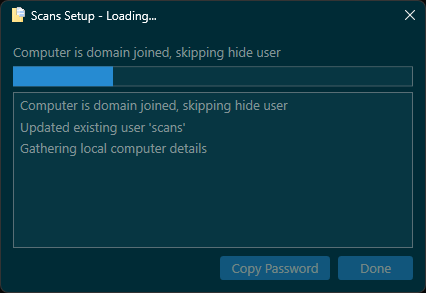
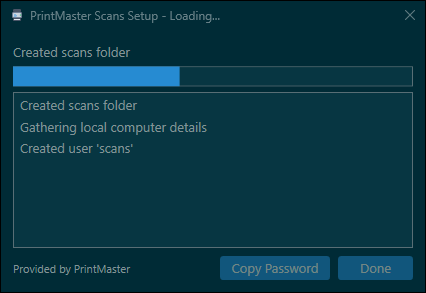
feat(site): align scans with printmaster and refresh screenshots
Refresh the landing page with shared PrintMaster styling and cross-site navigation while preserving release loading and copy commands. Replace all app screenshots with current branded window captures using documented example data and link the manual SMB setup guide.

diff --git a/site/index.html b/site/index.html
@@ -3,6 +3,7 @@
 <head>
   <meta charset="utf-8">
   <meta name="viewport" content="width=device-width, initial-scale=1">
+  <meta name="theme-color" content="#002b36">
   <meta name="description" content="PrintMaster Scans sets up a Windows scan-to-SMB account, folder, and network share.">
   <title>Scans | PrintMaster</title>
   <link rel="icon" href="logo.svg" type="image/svg+xml">
@@ -11,63 +12,105 @@
 </head>
 <body>
   <a class="skip-link" href="#main">Skip to content</a>
-  <header>
-    <a class="brand" href="https://printmaster.work/" aria-label="PrintMaster home"><img src="logo.svg" alt="" width="40" height="40"><span>Print<span class="brand-accent">Master</span></span></a>
-    <span class="product-name">Scans</span>
-    <nav aria-label="Main navigation"><a href="https://docs.printmaster.work/guides/scans/">Documentation</a><a href="https://github.com/printmaster-org/scans">GitHub</a></nav>
+  <header class="site-header">
+    <div class="container nav-wrap">
+      <a class="brand" href="https://printmaster.work/" aria-label="PrintMaster home"><img src="logo.svg" alt="" width="40" height="40"><span>Print<span class="brand-accent">Master</span></span></a>
+      <nav aria-label="Main navigation">
+        <a href="https://printmaster.work/">Platform</a>
+        <a href="https://printmaster.work/downloads">Downloads</a>
+        <a href="./" aria-current="page">Scans</a>
+        <a href="https://docs.printmaster.work/guides/scans/">Docs <span aria-hidden="true">&nearr;</span></a>
+        <a class="nav-github" href="https://github.com/printmaster-org/scans">GitHub <span aria-hidden="true">&nearr;</span></a>
+      </nav>
+    </div>
   </header>
   <main id="main">
     <section class="hero">
-      <p class="eyebrow">Scan-to-SMB setup for Windows</p>
-      <h1>A home for your scans.<br>Without the setup headache.</h1>
-      <p>Create a dedicated account, scan folder, SMB share, and desktop shortcut, with guided network configuration.</p>
-      <p>Provided by PrintMaster. A standalone utility &mdash; no PrintMaster Agent or Server required.</p>
-      <a class="button" href="#get-started">Get started</a>
-      <a class="secondary" href="https://github.com/printmaster-org/scans">View source on GitHub</a>
-    </section>
-    <section id="get-started">
-      <h2>Set up your PC</h2>
-      <ol>
-        <li>Open <strong>Windows PowerShell or Terminal as Administrator</strong>.</li>
-        <li>Review the <a href="scans.ps1">loader script</a>, then paste this command:</li>
-      </ol>
-      <div id="setup-command" class="command-block">
-        <pre><code id="setup-command-text">irm https://scans.printmaster.work/scans.ps1 | iex</code></pre>
+      <div class="container hero-layout">
+        <div class="hero-copy">
+          <p class="eyebrow">PrintMaster Scans &middot; Windows</p>
+          <h1>A home for your scans.<br><span>Without the setup headache.</span></h1>
+          <p class="hero-lede">Create a dedicated account, scan folder, SMB share, and desktop shortcut, with guided network configuration.</p>
+          <div class="hero-actions">
+            <a class="button" href="#get-started">Set up scan-to-SMB <span aria-hidden="true">&rarr;</span></a>
+            <a class="button secondary" href="https://docs.printmaster.work/guides/scans/">Read the guide <span aria-hidden="true">&nearr;</span></a>
+          </div>
+          <ul class="hero-meta" aria-label="Utility highlights"><li>Standalone utility</li><li>No Agent or Server required</li><li>PowerShell 5.1 / 7</li></ul>
+        </div>
+        <figure class="preview">
+          <div class="preview-heading"><span class="status-dot" aria-hidden="true"></span> YOUR PC. READY TO RECEIVE.</div>
+          <img src="img/scans-setup.png" alt="Scans setup window with account, folder, and share settings" width="426" height="243" fetchpriority="high">
+          <figcaption>Choose your account, folder, and share.<br>Provided by PrintMaster. Example credentials shown.</figcaption>
+        </figure>
       </div>
-      <p id="stable-status" role="status">Loading stable release information...</p>
-      <p>Choose your account, folder, and share settings. Keep the generated password or choose one that meets your organization's policy. After setup, enter the PC's SMB share address and scan-account credentials on your printer.</p>
-      <p><a href="https://docs.printmaster.work/guides/scans/">Read the setup and troubleshooting guide</a> for printer settings, permissions, and password-policy help.</p>
-      <p>The loader downloads a version-specific GitHub release and verifies SHA-256 before running it. A download or verification failure stops execution; it never falls back to development code.</p>
+      <nav class="container section-nav" aria-label="On this page"><span>A companion tool for the networks you manage</span><a href="#get-started">Setup</a><a href="#requirements">Requirements</a><a href="#releases">Releases</a></nav>
     </section>
-    <section class="columns">
-      <div>
-        <h2>Requirements</h2>
-        <ul>
-          <li>Windows 11 (primary support).</li>
-          <li>Windows 10 22H2 (best-effort compatibility).</li>
-          <li>Windows PowerShell 5.1 or PowerShell 7.</li>
-          <li>Administrator privileges and internet access.</li>
-          <li>A printer that supports scan-to-SMB.</li>
-        </ul>
-        <p>Windows 7/8/8.1 and Windows Server are not validated support targets. Compatibility does not extend Microsoft's operating-system support.</p>
-      </div>
-      <div>
-        <h2>If something goes wrong</h2>
-        <p>Setup displays actionable errors. Password policy failures require a different password, not disabling Group Policy. Account-dependent steps are skipped if account setup fails.</p>
-        <p>For download errors, check access to this site and GitHub. For a checksum mismatch, stop and report it; do not bypass verification.</p>
-        <a href="https://github.com/printmaster-org/scans/issues">Report a problem</a>
+    <section class="section" id="get-started">
+      <div class="container setup-layout">
+        <div class="section-heading">
+          <p class="eyebrow">Get started</p>
+          <h2>Less configuration.<br><span>More getting things done.</span></h2>
+          <p>Prepare the receiving PC first. Then add its share address and scan-account credentials to your printer.</p>
+          <a class="text-link" href="https://docs.printmaster.work/guides/scans/">Full setup and troubleshooting guide <span aria-hidden="true">&nearr;</span></a>
+          <p class="manual-guide">Prefer to configure Windows yourself? <a href="https://docs.printmaster.work/guides/manual-smb-setup/">Follow the manual SMB setup guide.</a></p>
+        </div>
+        <div class="setup-panel">
+          <div class="panel-heading"><span class="step-number">01</span><h3>Set up your PC</h3><span class="tag">PowerShell</span></div>
+          <ol>
+            <li>Open <strong>Windows PowerShell or Terminal as Administrator</strong>.</li>
+            <li>Review the <a href="scans.ps1">loader script</a>, then paste this command:</li>
+          </ol>
+          <div id="setup-command" class="command-block">
+            <pre><code id="setup-command-text">irm https://scans.printmaster.work/scans.ps1 | iex</code></pre>
+          </div>
+          <p id="stable-status" role="status">Loading stable release information...</p>
+          <div class="setup-next"><span class="step-number">02</span><div><h3>Connect your printer</h3><p>Choose your account, folder, and share settings. Keep the generated password or choose one that meets your organization's policy. After setup, enter the PC's SMB share address and scan-account credentials on your printer.</p></div></div>
+          <p class="fine-print">The loader downloads a version-specific GitHub release and verifies SHA-256 before running it. A download or verification failure stops execution; it never falls back to development code.</p>
+        </div>
       </div>
     </section>
-    <figure><img src="img/scans-setup.png" alt="Scans setup window with account, folder, and share settings" loading="lazy"></figure>
-    <section id="releases">
-      <h2>Choose a specific version</h2>
-      <p>Use a pinned command to run a particular release. Each release page includes changes, downloads, and checksums. The loader and manifest still come from this site; pinning selects the utility version, not an offline installation.</p>
-      <div id="release-list"><p>Loading release history...</p></div>
-      <noscript><p>JavaScript is needed to display the generated list. Browse <a href="releases.json">the version/checksum manifest</a> or <a href="https://github.com/printmaster-org/scans/releases">GitHub Releases</a> directly.</p></noscript>
-      <p><a href="releases.json">All published version hashes (JSON)</a> &middot; <a href="https://github.com/printmaster-org/scans/releases">Historical releases and release notes</a></p>
-      <p>SHA-256 verifies that a download matches the published manifest. It is not a digital signature or independent proof of publisher identity.</p>
+    <section class="section support-section" id="requirements">
+      <div class="container columns">
+        <div class="info-card">
+          <p class="eyebrow">Before you begin</p>
+          <h2>Requirements</h2>
+          <ul>
+            <li>Windows 11 (primary support).</li>
+            <li>Windows 10 22H2 (best-effort compatibility).</li>
+            <li>Windows PowerShell 5.1 or PowerShell 7.</li>
+            <li>Administrator privileges and internet access.</li>
+            <li>A printer that supports scan-to-SMB.</li>
+          </ul>
+          <p>Windows 7/8/8.1 and Windows Server are not validated support targets. Compatibility does not extend Microsoft's operating-system support.</p>
+        </div>
+        <div class="info-card">
+          <p class="eyebrow">Here to help</p>
+          <h2>If something goes wrong</h2>
+          <p>Setup displays actionable errors. Password policy failures require a different password, not disabling Group Policy. Account-dependent steps are skipped if account setup fails.</p>
+          <p>For download errors, check access to this site and GitHub. For a checksum mismatch, stop and report it; do not bypass verification.</p>
+          <a class="text-link" href="https://github.com/printmaster-org/scans/issues">Report a problem <span aria-hidden="true">&nearr;</span></a>
+        </div>
+      </div>
+    </section>
+    <section class="section" id="releases">
+      <div class="container">
+        <div class="release-heading"><div><p class="eyebrow">Release history</p><h2>The version you need.<br><span>The details to match.</span></h2></div><p>Use a pinned command to run a particular release. Each release page includes changes, downloads, and checksums. The loader and manifest still come from this site; pinning selects the utility version, not an offline installation.</p></div>
+        <div id="release-list"><p>Loading release history...</p></div>
+        <noscript><p>JavaScript is needed to display the generated list. Browse <a href="releases.json">the version/checksum manifest</a> or <a href="https://github.com/printmaster-org/scans/releases">GitHub Releases</a> directly.</p></noscript>
+        <p><a href="releases.json">All published version hashes (JSON)</a> &middot; <a href="https://github.com/printmaster-org/scans/releases">Historical releases and release notes</a></p>
+        <p class="fine-print">SHA-256 verifies that a download matches the published manifest. It is not a digital signature or independent proof of publisher identity.</p>
+      </div>
     </section>
   </main>
-  <footer>Provided by <a href="https://printmaster.work/">PrintMaster</a> &middot; <a href="https://docs.printmaster.work/guides/scans/">Documentation</a> &middot; <a href="https://github.com/printmaster-org/scans">Open source on GitHub</a></footer>
+  <footer class="site-footer">
+    <div class="container">
+      <div class="footer-top">
+        <div><a class="brand" href="https://printmaster.work/"><img src="logo.svg" alt="" width="40" height="40"><span>Print<span class="brand-accent">Master</span></span></a><p>Provided by PrintMaster.<br>Made for the networks you manage.</p></div>
+        <nav aria-label="PrintMaster sites"><h2>Explore</h2><a href="https://printmaster.work/">Platform</a><a href="https://printmaster.work/downloads">Downloads</a><a href="./" aria-current="page">PrintMaster Scans</a><a href="https://docs.printmaster.work/">Documentation</a></nav>
+        <nav aria-label="Scans resources"><h2>Scans resources</h2><a href="https://docs.printmaster.work/guides/scans/">Setup guide</a><a href="https://github.com/printmaster-org/scans">GitHub</a><a href="https://github.com/printmaster-org/scans/releases">All releases</a><a href="https://github.com/printmaster-org/scans/issues">Report a problem</a></nav>
+      </div>
+      <div class="footer-bottom"><span>PrintMaster Scans &middot; Standalone Windows utility</span><a href="https://github.com/printmaster-org/scans">Open source on GitHub <span aria-hidden="true">&nearr;</span></a></div>
+    </div>
+  </footer>
 </body>
 </html>

diff --git a/site/styles.css b/site/styles.css
@@ -1,41 +1,133 @@
-:root { color-scheme: light dark; --bg: #002b36; --panel: #073642; --fg: #eee8d5; --muted: #a4b5b8; --accent: #62c6f2; }
+:root {
+  color-scheme: light dark;
+  --bg: #002b36;
+  --bg-deep: #00232c;
+  --panel: #073642;
+  --border: #14505b;
+  --fg: #eee8d5;
+  --muted: #a4b5b8;
+  --accent: #49c6b4;
+  --button: #2aa198;
+  --button-fg: #00232c;
+  --code: #001f27;
+  --container: 1160px;
+}
 * { box-sizing: border-box; }
-html { scroll-behavior: smooth; }
-body { margin: 0; background: var(--bg); color: var(--fg); font: 1.05rem/1.7 system-ui, sans-serif; }
-header, main, footer { max-width: 1080px; margin: auto; padding: 1.5rem; }
-header { display: flex; align-items: center; flex-wrap: wrap; gap: 1rem; border-bottom: 1px solid #586e75; }
-.brand { display: inline-flex; align-items: center; gap: .5rem; color: var(--fg); font-size: 1.25rem; font-weight: 800; text-decoration: none; }
-.brand img { flex-shrink: 0; border-radius: 0; }
-.brand-accent { color: var(--accent); }
-.product-name { border-left: 1px solid #586e75; padding-left: 1rem; }
-header nav { display: flex; flex-wrap: wrap; gap: 1rem; margin-left: auto; }
-.skip-link { position: absolute; top: -100px; left: 1rem; padding: .5rem 1rem; background: var(--panel); }
-.skip-link:focus { top: 1rem; }
+html { scroll-behavior: smooth; scroll-padding-top: 110px; }
+body { margin: 0; background: var(--bg); color: var(--muted); font: 1rem/1.7 "DM Sans", system-ui, -apple-system, "Segoe UI", sans-serif; }
+.container { width: min(var(--container), calc(100% - 48px)); margin-inline: auto; }
 a { color: var(--accent); text-underline-offset: .2em; }
-a:focus-visible, button:focus-visible { outline: 3px solid var(--accent); outline-offset: 5px; }
-h1, h2, h3 { line-height: 1.2; }
-h1 { font-size: clamp(2.1rem, 6vw, 4rem); letter-spacing: -.04em; }
-h2 { font-size: 1.8rem; }
-section { margin: 3rem 0; scroll-margin-top: 1rem; }
-.hero { padding: 1rem 0 2rem; }
-.hero p { max-width: 720px; }
-.eyebrow { color: var(--accent); font-weight: 600; }
-.button { display: inline-block; padding: .6rem 1.2rem; margin: 1rem 1rem 0 0; background: #268bd2; color: white; border-radius: .4rem; text-decoration: none; font-weight: 600; }
-.secondary { display: inline-block; margin-top: 1rem; }
-pre { padding: 1rem; background: var(--panel); border: 1px solid #586e75; border-radius: .4rem; overflow-x: auto; font-size: .9rem; }
-.command-block { display: grid; grid-template-columns: minmax(0, 1fr) auto; align-items: start; gap: .5rem; margin: 1em 0; }
+a:hover { text-decoration: none; }
+:focus-visible { outline: 3px solid var(--accent); outline-offset: 5px; }
+h1, h2, h3 { margin-top: 0; color: var(--fg); line-height: 1.15; font-family: Manrope, "DM Sans", system-ui, sans-serif; }
+h1 { margin-bottom: 1.5rem; font-size: clamp(2.6rem, 4.7vw, 4rem); letter-spacing: -.05em; font-weight: 800; }
+h2 { margin-bottom: 1.25rem; font-size: clamp(1.9rem, 3.3vw, 2.8rem); letter-spacing: -.04em; }
+h3 { font-size: 1.15rem; }
+h1 span, h2 span { color: var(--accent); }
+p { margin: 0 0 1.25rem; }
+.site-header { position: sticky; top: 0; z-index: 10; background: var(--bg-deep); border-bottom: 1px solid var(--border); }
+.nav-wrap { min-height: 76px; display: flex; align-items: center; justify-content: space-between; gap: 2rem; }
+.brand { display: inline-flex; align-items: center; gap: .6rem; color: var(--fg); font-size: 1.2rem; font-weight: 800; letter-spacing: -.04em; text-decoration: none; white-space: nowrap; }
+.brand img { flex-shrink: 0; }
+.brand-accent { color: var(--accent); }
+.site-header nav { display: flex; align-items: center; gap: 1.8rem; font-size: .85rem; font-weight: 600; }
+.site-header nav a { color: var(--muted); text-decoration: none; }
+.site-header nav a:hover, .site-header nav a[aria-current] { color: var(--accent); }
+.nav-github { border: 1px solid var(--border); padding: .45rem .85rem; border-radius: 8px; }
+.skip-link { position: absolute; z-index: 20; top: -100px; left: 1rem; padding: .5rem 1rem; background: var(--panel); }
+.skip-link:focus { top: 1rem; }
+.hero { background: radial-gradient(ellipse at 80% 25%, #2aa19816, transparent 60%); padding-top: 5.5rem; }
+.hero-layout { display: grid; grid-template-columns: 1.15fr 1fr; align-items: center; gap: 3rem; padding-bottom: 4rem; }
+.hero-copy, .preview, .setup-panel, .info-card, .release-heading > *, #release-list article { min-width: 0; }
+.eyebrow { display: flex; align-items: center; gap: .55rem; margin-bottom: 1.25rem; color: var(--accent); font-size: .7rem; font-weight: 700; letter-spacing: .13em; text-transform: uppercase; }
+.eyebrow::before, .status-dot { content: ""; display: inline-block; flex-shrink: 0; width: 7px; height: 7px; border-radius: 50%; background: var(--accent); }
+.hero-lede { max-width: 34rem; font-size: 1.05rem; }
+.hero-actions { display: flex; flex-wrap: wrap; gap: .75rem; margin: 1.75rem 0 1.25rem; }
+.button { display: inline-flex; justify-content: center; align-items: center; gap: .6rem; min-height: 48px; padding: .7rem 1.1rem; background: var(--button); color: var(--button-fg); border: 1px solid transparent; border-radius: 8px; text-decoration: none; font-size: .85rem; font-weight: 700; }
+.button:hover { border-color: var(--accent); box-shadow: 0 4px 20px #2aa19826; }
+.button.secondary { background: var(--panel); border-color: var(--border); color: var(--fg); }
+.hero-meta { display: flex; flex-wrap: wrap; gap: .5rem 1.25rem; list-style: none; padding: 0; font-size: .75rem; }
+.hero-meta li::before { content: "+"; margin-right: .4rem; color: var(--accent); }
+.preview { margin: 0; padding: 1.5rem; border: 1px solid var(--border); border-radius: 14px; background: var(--panel); box-shadow: 0 24px 64px #0003; }
+.preview-heading { display: flex; align-items: center; gap: .5rem; margin-bottom: 1.5rem; color: var(--accent); font-size: .65rem; font-weight: 700; letter-spacing: .1em; }
+.preview img { display: block; width: 100%; height: auto; border-radius: 8px; }
+figcaption { margin-top: 1.25rem; text-align: center; font-size: .8rem; }
+.section-nav { display: flex; align-items: center; flex-wrap: wrap; gap: 1.5rem; padding-block: 1.25rem; border-top: 1px solid var(--border); font-size: .75rem; }
+.section-nav > span { margin-right: auto; }
+.section-nav a { color: var(--muted); text-decoration: none; }
+.section-nav a:hover { color: var(--accent); }
+.section { padding-block: 5.5rem; }
+.setup-layout { display: grid; grid-template-columns: .8fr 1.2fr; gap: 3.5rem; align-items: start; }
+.text-link { font-size: .85rem; font-weight: 600; }
+.manual-guide { margin-top: 1.25rem; font-size: .85rem; }
+.setup-panel, .info-card, #release-list article { background: var(--panel); border: 1px solid var(--border); border-radius: 12px; padding: 1.75rem; }
+.panel-heading { display: flex; align-items: center; gap: .75rem; margin-bottom: 1.25rem; }
+.panel-heading h3 { margin: 0; }
+.step-number { flex-shrink: 0; display: inline-grid; place-items: center; width: 32px; height: 32px; background: var(--bg); border: 1px solid var(--border); border-radius: 8px; color: var(--accent); font-size: .75rem; font-weight: 700; }
+.tag { margin-left: auto; padding: .15rem .5rem; border: 1px solid var(--border); border-radius: 5px; color: var(--accent); font-size: .65rem; }
+ol, ul { padding-left: 1.3rem; }
+li { margin-bottom: .4rem; }
+strong { color: var(--fg); }
+pre { padding: 1rem; background: var(--code); border: 1px solid var(--border); border-radius: 8px; overflow-x: auto; color: var(--fg); font-size: .85rem; line-height: 1.7; }
+.command-block { display: grid; grid-template-columns: minmax(0, 1fr) auto; align-items: start; gap: .5rem; margin: 1.25rem 0; }
 .command-block pre { margin: 0; }
-.copy-command { padding: .8rem 1rem; background: var(--panel); color: var(--fg); border: 1px solid #586e75; border-radius: .4rem; font: inherit; cursor: pointer; }
+.copy-command { min-height: 48px; padding: .8rem; background: var(--bg); color: var(--fg); border: 1px solid var(--border); border-radius: 8px; font: inherit; font-size: .8rem; cursor: pointer; }
 .copy-command:hover { border-color: var(--accent); }
 .copy-command:disabled { opacity: .7; cursor: wait; }
-.copy-status { grid-column: 1 / -1; margin: 0; font-size: .9rem; }
+.copy-status { grid-column: 1 / -1; margin: 0; font-size: .85rem; color: var(--fg); }
 .copy-status:empty { display: none; }
-.columns { display: grid; grid-template-columns: repeat(auto-fit, minmax(min(100%, 300px), 1fr)); gap: 2rem; }
-figure { margin: 2rem 0; }
-img { max-width: 100%; height: auto; border-radius: .5rem; }
-article { padding: 1rem 0; border-bottom: 1px solid #586e75; }
-.checksum { color: var(--muted); overflow-wrap: anywhere; font: .85rem/1.6 ui-monospace, monospace; }
-footer { color: var(--muted); border-top: 1px solid #586e75; }
-@media (prefers-color-scheme: light) { :root { --bg: #fdf6e3; --panel: #eee8d5; --fg: #073642; --muted: #586e75; --accent: #005b91; } }
-@media (max-width: 600px) { .command-block { grid-template-columns: minmax(0, 1fr); } .copy-command { justify-self: start; } }
+#stable-status { color: var(--fg); font-size: .85rem; }
+.setup-next { display: flex; gap: .75rem; padding-top: 1.5rem; border-top: 1px solid var(--border); }
+.setup-next h3 { margin: .25rem 0 .75rem; }
+.setup-next p { font-size: .9rem; }
+.fine-print { font-size: .8rem; }
+.setup-panel > :last-child, .info-card > :last-child { margin-bottom: 0; }
+.support-section { background: var(--bg-deep); border-block: 1px solid var(--border); }
+.columns { display: grid; grid-template-columns: 1fr 1fr; gap: 1.5rem; }
+.info-card h2 { font-size: 1.6rem; }
+.info-card p, .info-card li { font-size: .9rem; }
+.release-heading { display: grid; grid-template-columns: 1fr 1fr; align-items: center; gap: 3rem; margin-bottom: 2rem; }
+#release-list { display: grid; gap: 1rem; margin-bottom: 1.5rem; }
+#release-list h3 { margin-bottom: .75rem; color: var(--accent); }
+#release-list article > a { font-size: .85rem; }
+.checksum { margin-bottom: 0; overflow-wrap: anywhere; font: .75rem/1.7 ui-monospace, monospace; }
+.site-footer { background: var(--bg-deep); border-top: 1px solid var(--border); padding-top: 3rem; }
+.footer-top { display: grid; grid-template-columns: 2fr 1fr 1fr; gap: 2rem; padding-bottom: 2.5rem; }
+.footer-top p { margin-top: 1rem; font-size: .85rem; }
+.footer-top nav { display: flex; flex-direction: column; align-items: start; gap: .6rem; }
+.footer-top nav h2 { margin-bottom: .25rem; font-size: .85rem; letter-spacing: normal; }
+.footer-top nav a { color: var(--muted); font-size: .8rem; text-decoration: none; }
+.footer-top nav a:hover { color: var(--accent); }
+.footer-bottom { display: flex; flex-wrap: wrap; justify-content: space-between; gap: 1rem; border-top: 1px solid var(--border); padding-block: 1.25rem; font-size: .75rem; }
+@media (prefers-color-scheme: light) {
+  :root { --bg: #fdf6e3; --bg-deep: #f5eedb; --panel: #eee8d5; --border: #d3cbb8; --fg: #073642; --muted: #586e75; --accent: #006b61; --button: #007b70; --button-fg: #fff; --code: #fdf6e3; }
+}
+@media (max-width: 960px) {
+  .hero-layout { gap: 2rem; }
+  .setup-layout { grid-template-columns: 1fr; gap: 2rem; }
+  .section-heading { max-width: 42rem; }
+}
+@media (max-width: 760px) {
+  .container { width: calc(100% - 36px); }
+  .nav-wrap { flex-wrap: wrap; justify-content: center; gap: .5rem; padding-block: .75rem; }
+  .site-header nav { width: 100%; justify-content: center; flex-wrap: wrap; gap: .25rem 1.1rem; font-size: .75rem; }
+  .site-header nav a { padding-block: .4rem; }
+  .nav-github { border: 0; padding-inline: 0; }
+  .hero { padding-top: 3rem; }
+  .hero-layout, .columns, .release-heading { grid-template-columns: 1fr; }
+  .hero-layout { padding-bottom: 2rem; }
+  .hero h1 { max-width: 36rem; }
+  .preview { width: min(100%, 480px); justify-self: center; }
+  .section-nav { gap: .5rem 1.5rem; }
+  .section-nav > span { width: 100%; }
+  .section { padding-block: 3.5rem; }
+  .release-heading { gap: .5rem; }
+  .footer-top { grid-template-columns: 1fr 1fr; }
+  .footer-top > div { grid-column: 1 / -1; }
+}
+@media (max-width: 600px) {
+  .setup-panel, .info-card, #release-list article { padding: 1.25rem; }
+  .command-block { grid-template-columns: minmax(0, 1fr); }
+  .copy-command { justify-self: start; }
+}
 @media (prefers-reduced-motion: reduce) { html { scroll-behavior: auto; } }

diff --git a/README.md b/README.md
@@ -66,13 +66,13 @@ All settings are configurable through the UI before execution.
 
 ## Usage
 
-First choose the inputs — the password is randomly generated with a cryptographically secure generator.
+First choose the inputs — the password is randomly generated with a cryptographically secure generator. Screenshots use example credentials and simulated progress/completion states rendered from the current app UI; they do not show a real machine setup. Do not reuse the example password.
 
 ![Setup](img/scans-setup.png)
 
 The UI automatically matches your Windows theme (light or dark).
 
-App windows use the PrintMaster logo and attribution. The scan-folder desktop shortcut keeps its original scan icon. The self-contained utility embeds the window logo as WPF vector artwork matching [site/logo.svg](site/logo.svg), so branding needs no extra download. The screenshots below may show an earlier release.
+App windows use the PrintMaster logo and attribution. The scan-folder desktop shortcut keeps its original scan icon. The self-contained utility embeds the window logo as WPF vector artwork matching [site/logo.svg](site/logo.svg), so branding needs no extra download.
 
 ![Setup Light Theme](img/scans-setup-theme.png)
 
@@ -107,6 +107,8 @@ Both public entrypoints select manually published, versioned GitHub Releases. Me
 Pushing a stable SemVer tag starts the [Prepare release workflow](.github/workflows/release.yml). It reuses successful main-push CI for that exact commit instead of running tests again, then creates a draft with generated PR-based notes, a pinned command, the utility, metadata, and SHA-256. It waits briefly if main CI is still running and fails if that CI did not pass. Manual dispatch from `main` can retry an existing tag and packages that tag's source, not newer main code. Review/edit the notes, manually test on a disposable Windows VM, then publish the draft in GitHub. User publication triggers the [Pages workflow](.github/workflows/pages.yml), which also reuses existing CI, verifies published assets against their tagged source, and deploys the site plus manifest as generated artifacts. No bot pushes or protection bypasses are needed.
 
 Website source is in [site/](site/); the only loader source is [scans.ps1](scans.ps1). The site builder copies it unchanged into its deployment output. The actual utility is [src/scans.ps1](src/scans.ps1); release packaging selects that file, never the loader. New stable tags must use `vMAJOR.MINOR.PATCH`; historical four-part tags are retained and linked through GitHub Releases, but not exposed through the new checksum-verified channel.
+
+The landing page follows the PrintMaster site's Solarized palette, teal accents, wordmark, panel styling, and cross-site navigation. Styles and the logo are local to this repository; navigation works without JavaScript, and the layout supports light/dark preferences, keyboard navigation, and reduced motion. Release rendering and copy buttons use [site/releases.js](site/releases.js).
 
 Work on a feature branch and open a pull request. The [CI workflow](.github/workflows/ci.yml) runs syntax checks and mocked Pester tests on Windows using both Windows PowerShell 5.1 and PowerShell 7. Its **Required checks** job passes only when both test jobs succeed, including when using a merge queue. CI also runs after pushes to `main` and can be started manually.
 
